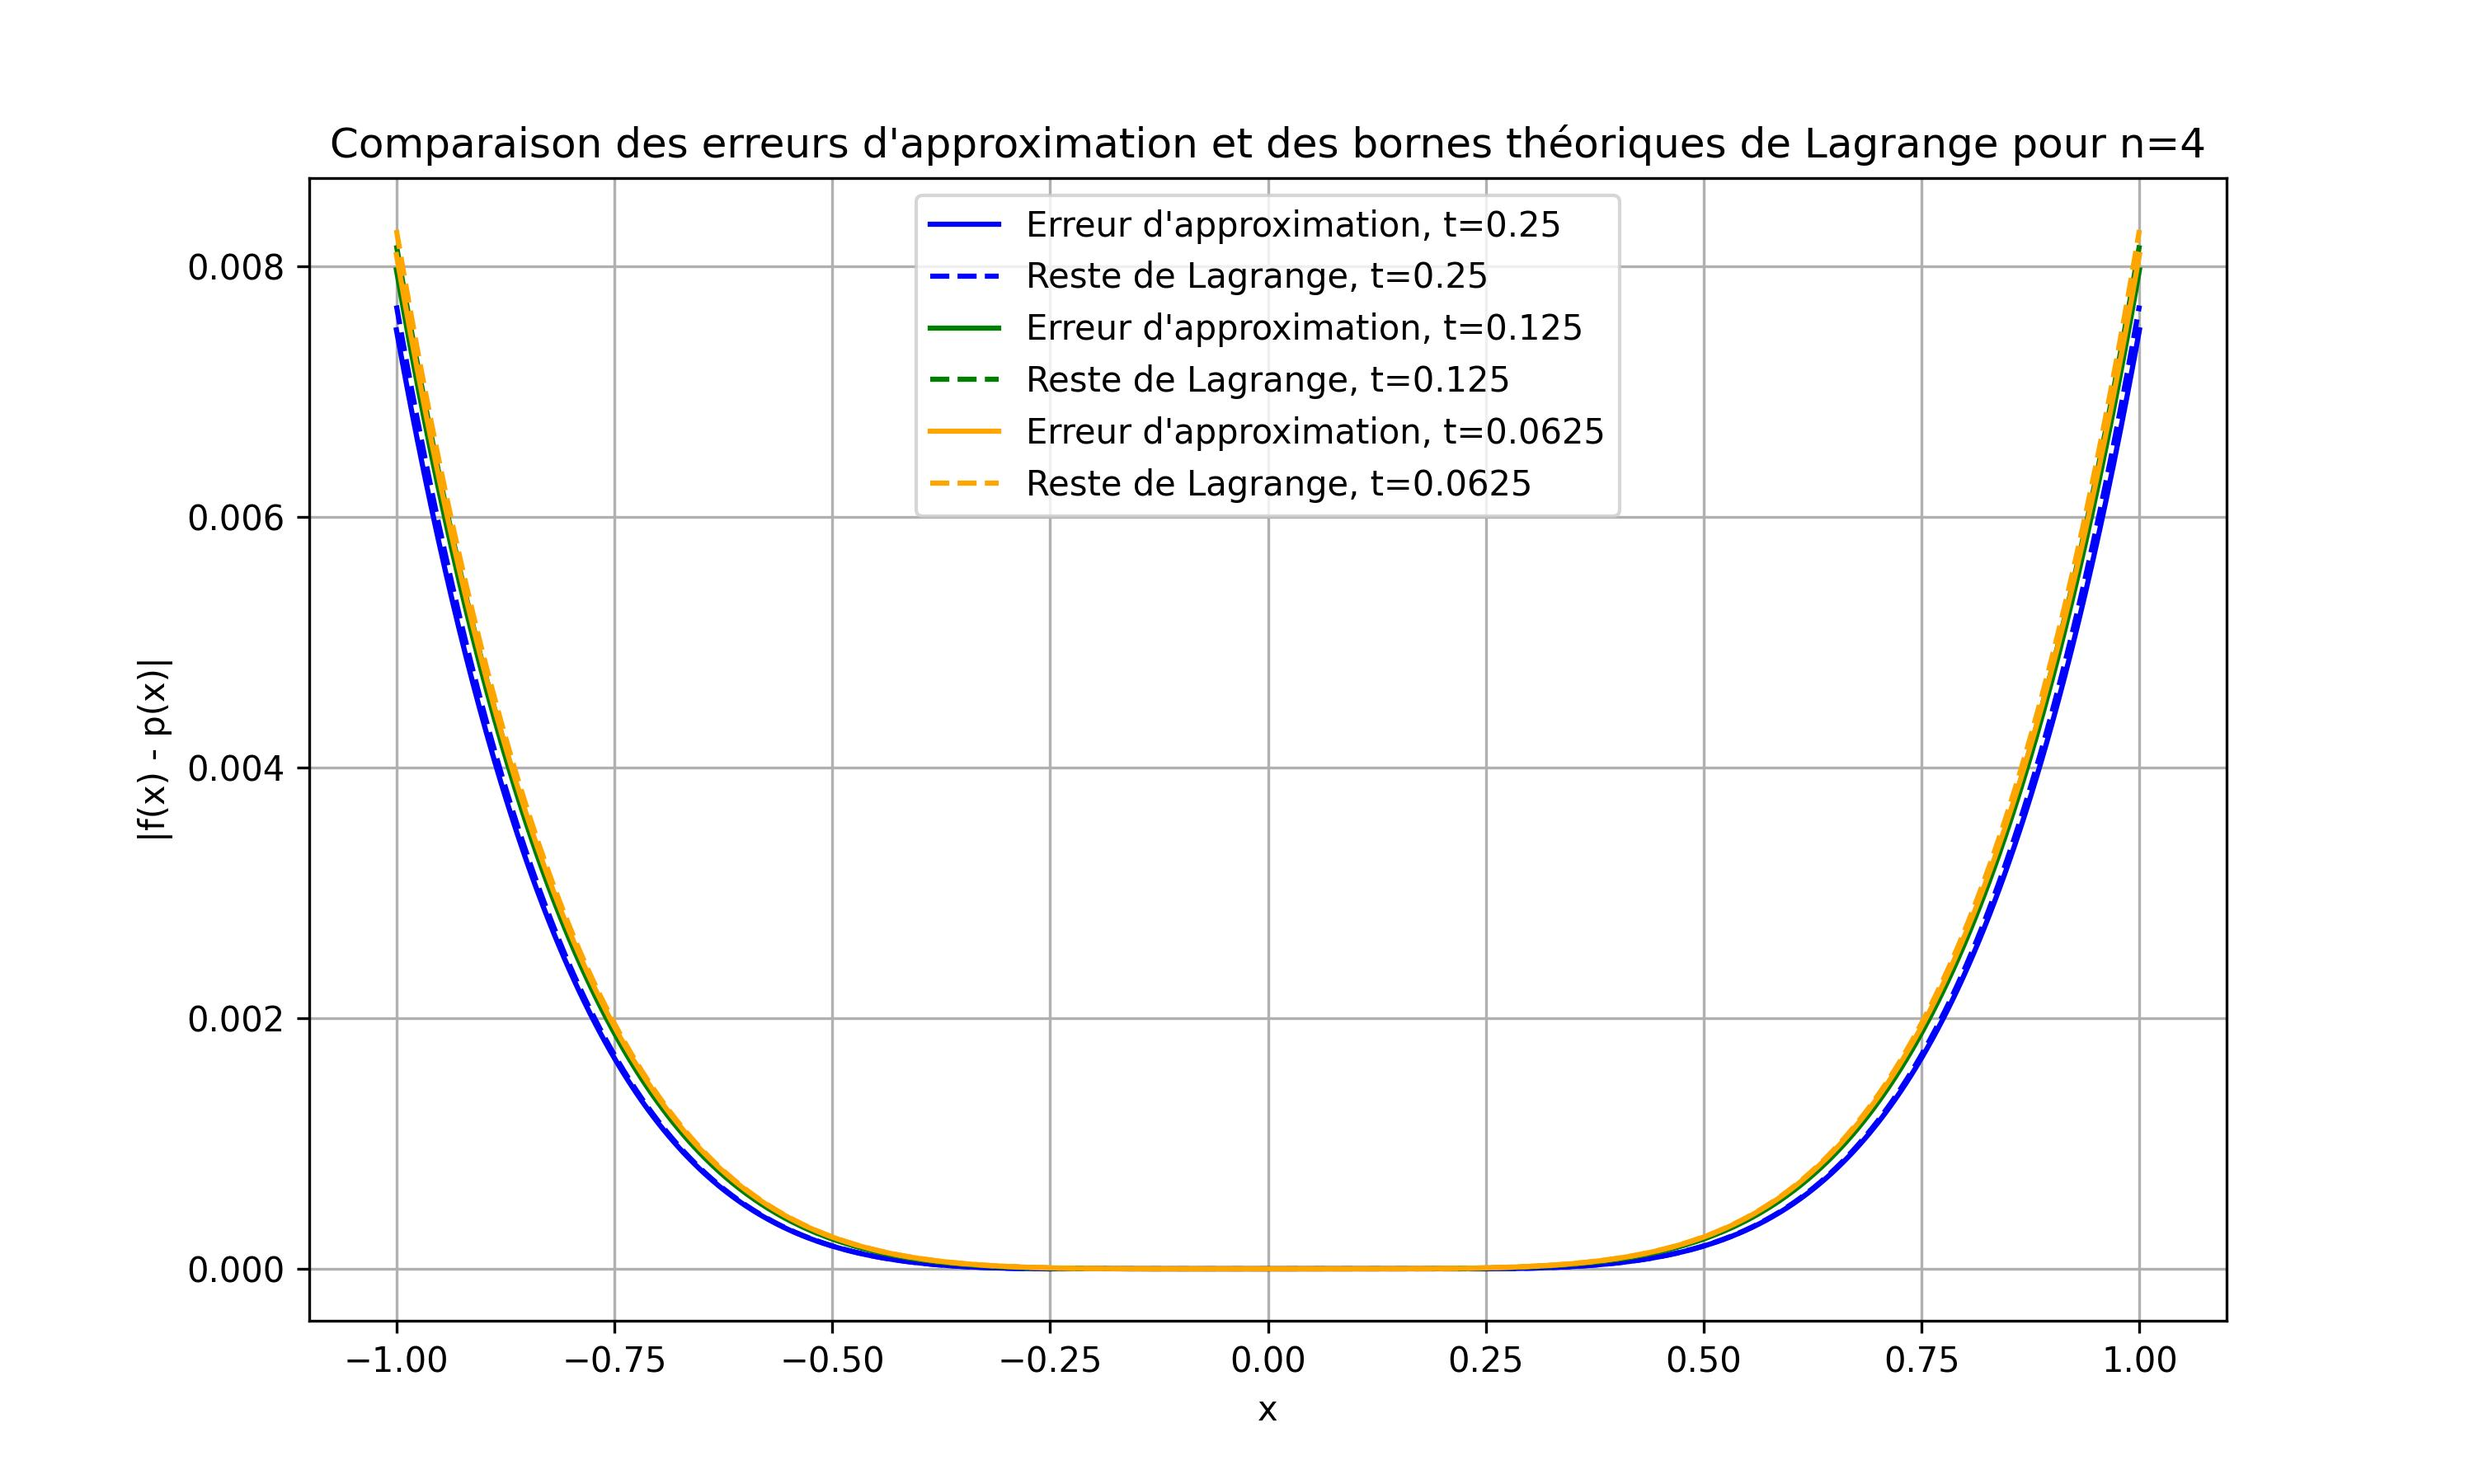
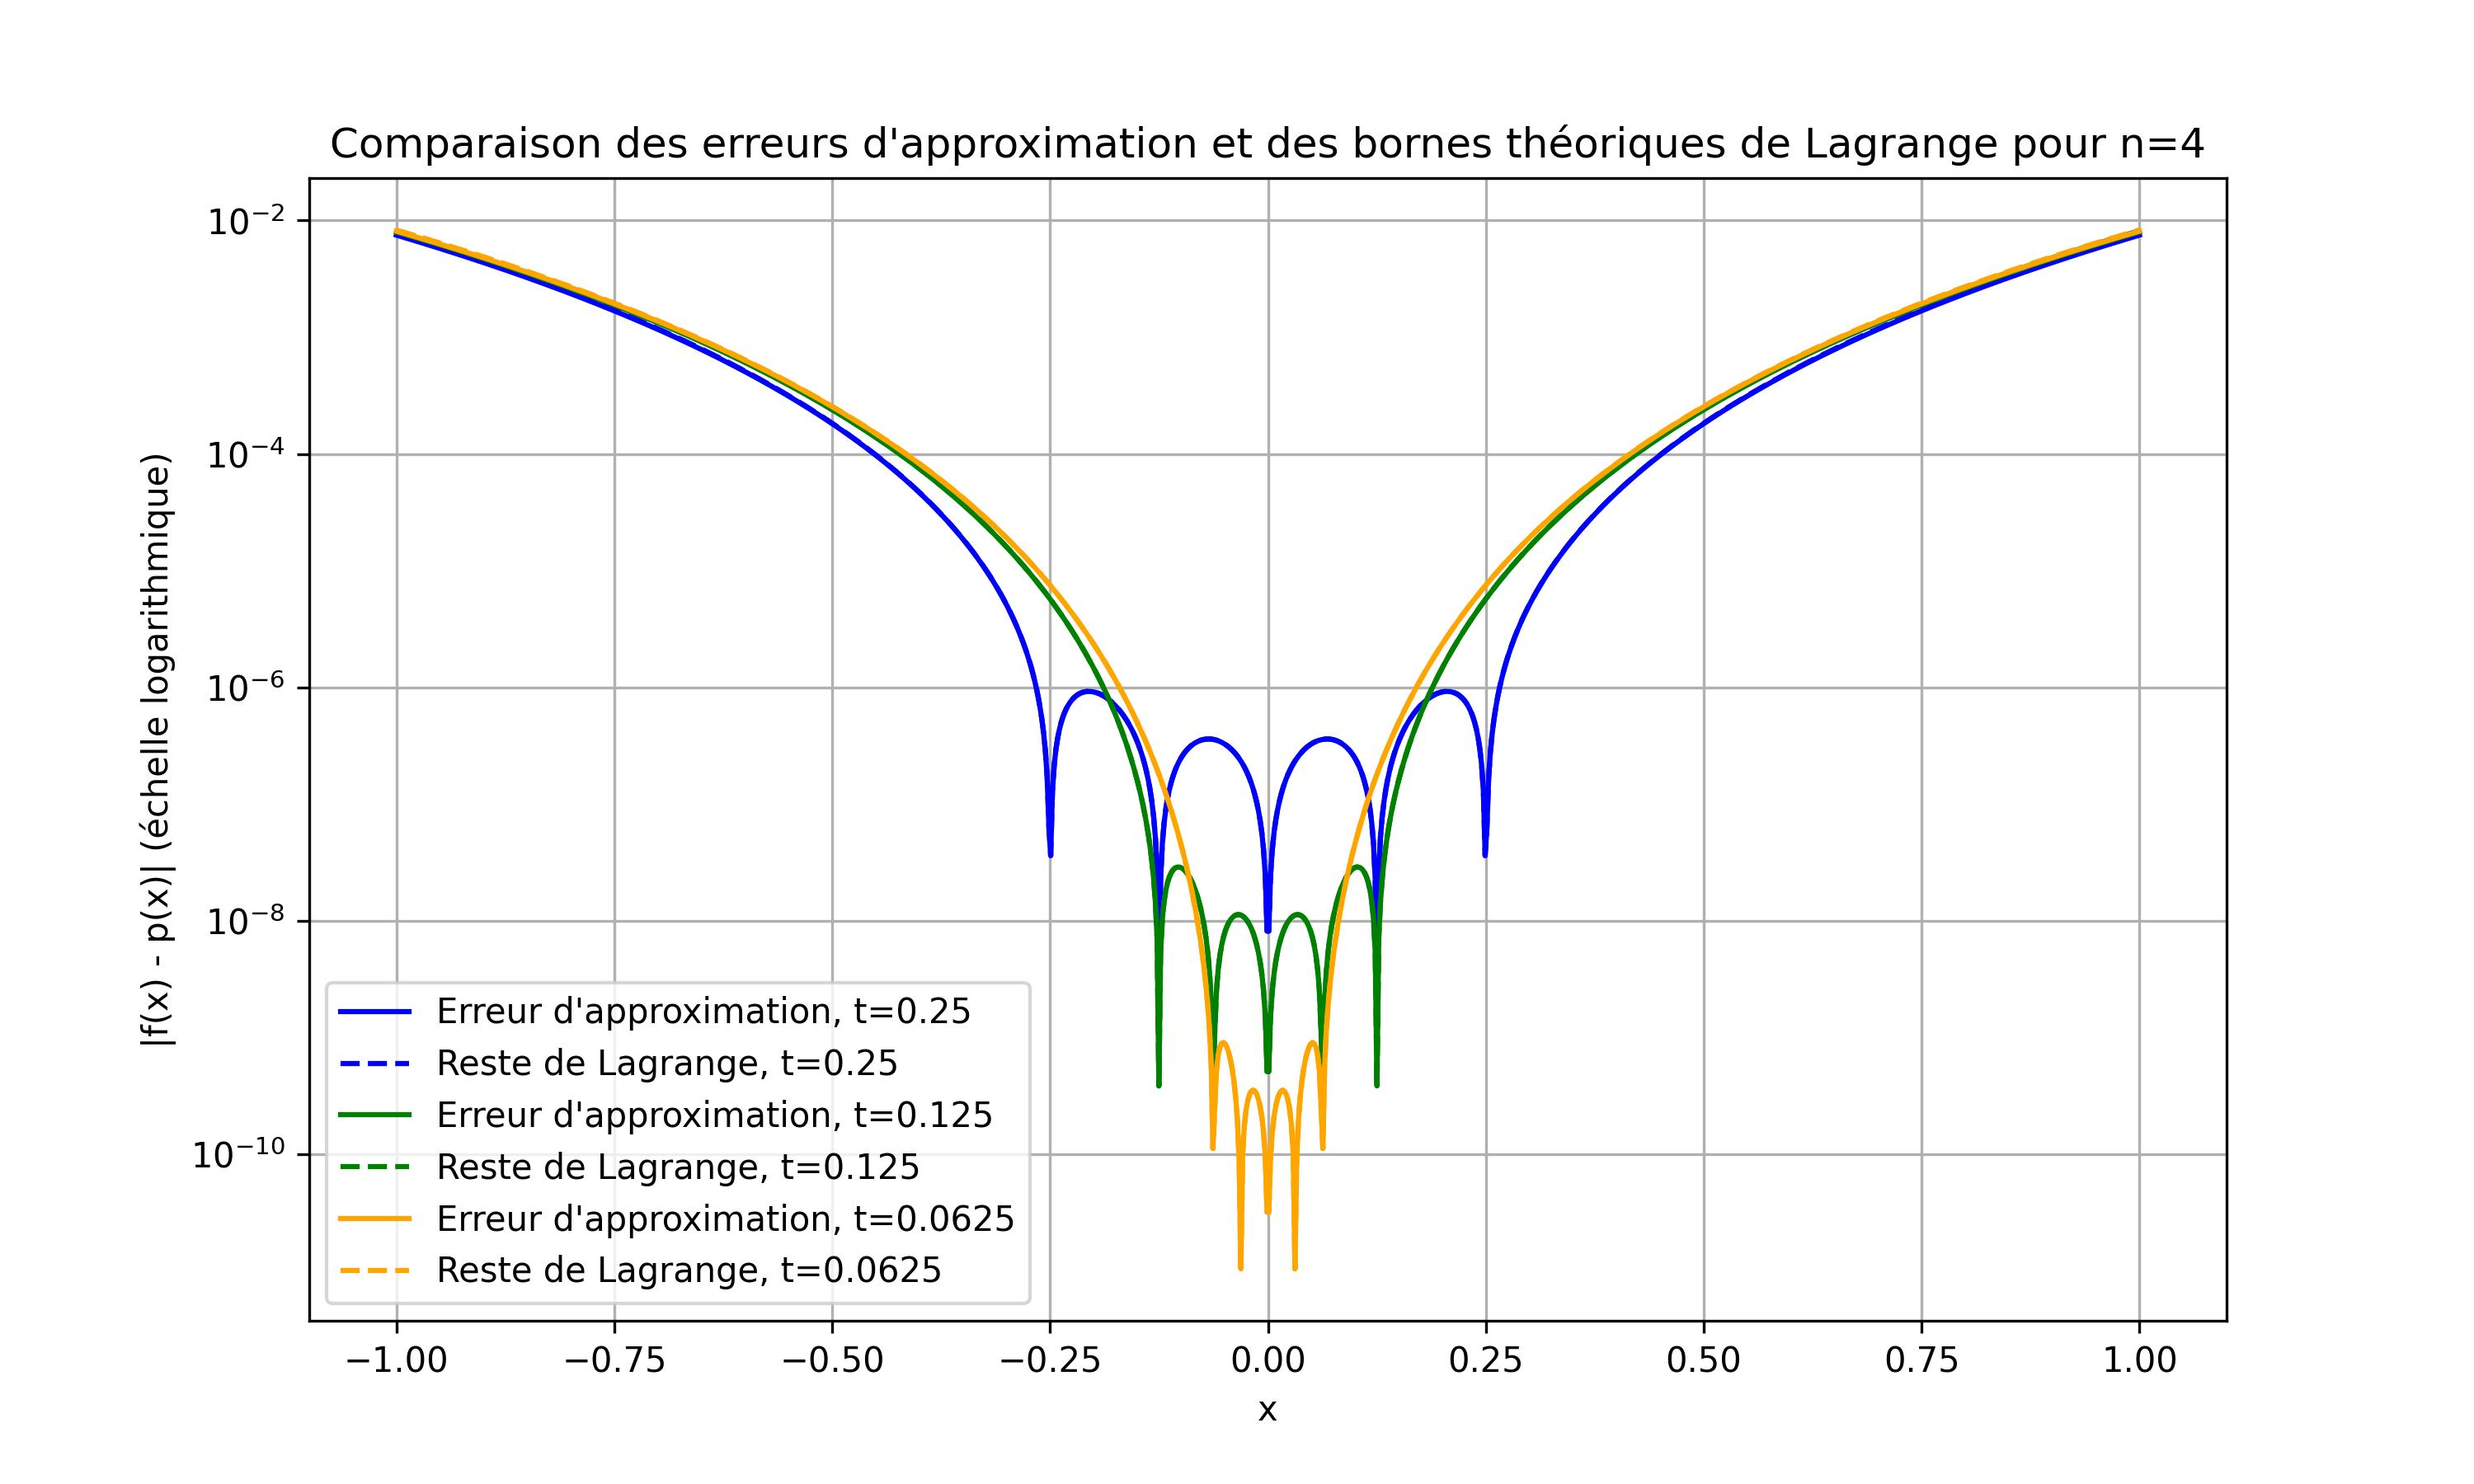
Add files via upload

diff --git a/Projet LMAT1351 1.3.py b/Projet LMAT1351 1.3.py
@@ -118,7 +118,8 @@ for n in range(1, 5):
         plt.plot(x, lagrange_bound, label=f"Reste de Lagrange, t={tcas}", linestyle="dashed", color=color)
         
         plt.xlabel("x")
-        plt.ylabel("|f(x) - p(x)|")
+        plt.ylabel("|f(x) - p(x)| (échelle logarithmique)")
+        plt.yscale("log")
         plt.legend()
         plt.grid(True)
 
